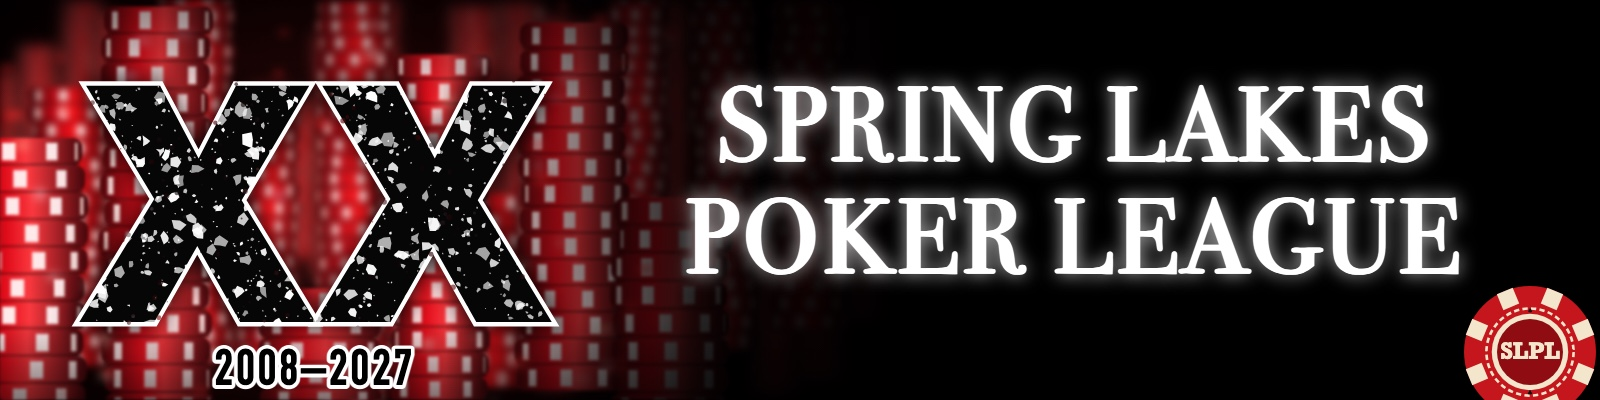
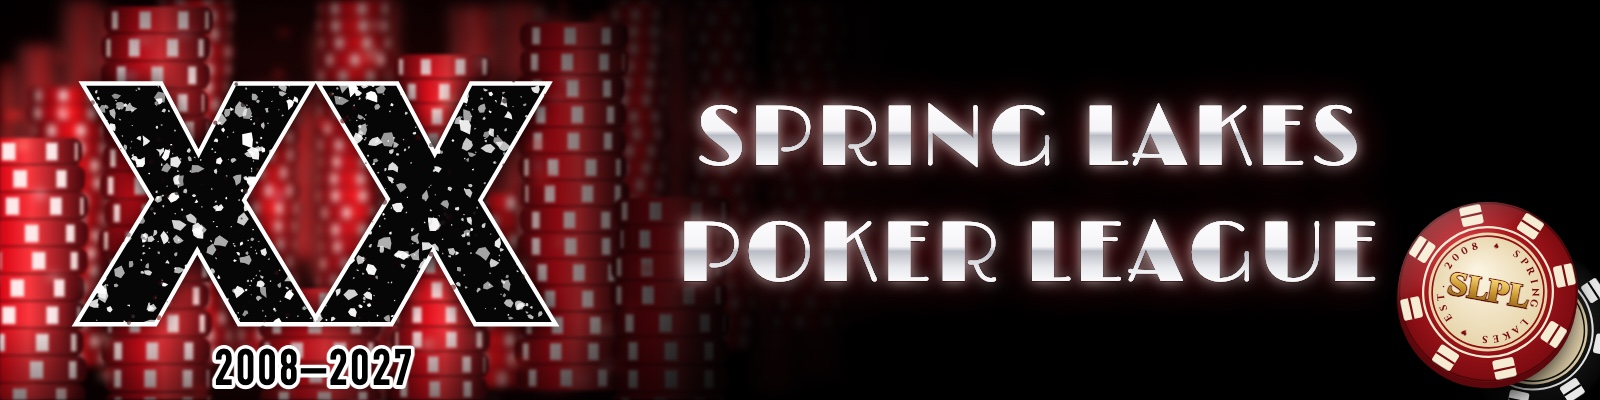
Use Header F (Limelight title, new 3D chip) for Season 20

Changed region(s): [[0.4062, 0.18, 1.0, 1.0]]

diff --git a/design/header.html b/design/header.html
@@ -8,6 +8,8 @@
   Usage: header.html?season=20&years=2008-2027&style=a
   Render to an image with headless Chrome (see design/README.md).
 -->
+<link rel="preconnect" href="https://fonts.googleapis.com">
+<link href="https://fonts.googleapis.com/css2?family=Cinzel:wght@700;900&family=Rye&family=Limelight&family=Playfair+Display+SC:wght@900&family=Cinzel+Decorative:wght@900&display=block" rel="stylesheet">
 <style>
   html, body { margin: 0; padding: 0; background: #000; overflow: hidden; }
   canvas { display: block; }
@@ -19,13 +21,18 @@
 const params = new URLSearchParams(location.search);
 const SEASON = parseInt(params.get('season') || '20');
 const YEARS = params.get('years') || `2008–2027`;
-const STYLE = params.get('style') || 'c'; // c = Bodoni, chosen for Season 20
+const STYLE = params.get('style') || 'f'; // f = Limelight, chosen for Season 20
 
 // Font pairings: roman numeral / title
 const STYLES = {
   a: { roman: '900 330px "Rockwell"',        title: 'bold 96px "Copperplate"',      titleSpacing: 6,  lineGap: 108 },
   b: { roman: '330px "Impact"',              title: '98px "Herculanum"',            titleSpacing: 4,  lineGap: 110 },
   c: { roman: '900 330px "Arial Black"',     title: 'bold 104px "Bodoni 72 Smallcaps"', titleSpacing: 5, lineGap: 112 },
+  // Second round: Google fonts, chrome-and-glow title, sized to fit
+  d: { roman: '900 330px "Arial Black"', title: '900 100px "Cinzel"',             titleSpacing: 4, lineGap: 116, chrome: true },
+  e: { roman: '900 330px "Arial Black"', title: '100px "Rye"',                    titleSpacing: 3, lineGap: 118, chrome: true },
+  f: { roman: '900 330px "Arial Black"', title: '100px "Limelight"',              titleSpacing: 4, lineGap: 116, chrome: true },
+  g: { roman: '900 330px "Arial Black"', title: '900 100px "Playfair Display SC"', titleSpacing: 3, lineGap: 116, chrome: true },
 };
 const S = STYLES[STYLE] || STYLES.a;
 
@@ -216,61 +223,174 @@ function years(text, cx, y) {
 }
 
 function title(cx, y1, y2) {
+  const lines = ['SPRING LAKES', 'POKER LEAGUE'];
   ctx.save();
-  ctx.font = S.title;
   ctx.textAlign = 'center';
   ctx.letterSpacing = S.titleSpacing + 'px';
-  ctx.fillStyle = '#fff';
-  // soft white glow like the old header
-  ctx.shadowColor = 'rgba(255,255,255,0.75)';
-  ctx.shadowBlur = 18;
-  ctx.fillText('SPRING LAKES', cx, y1);
-  ctx.fillText('POKER LEAGUE', cx, y2);
-  ctx.shadowBlur = 0;
-  ctx.fillText('SPRING LAKES', cx, y1);
-  ctx.fillText('POKER LEAGUE', cx, y2);
+  // Shrink the font if the wider line would run past the chip area
+  let font = S.title;
+  ctx.font = font;
+  const maxW = 700;
+  const widest = Math.max(...lines.map(l => ctx.measureText(l).width));
+  if (widest > maxW) {
+    font = font.replace(/(\d+)px/, (m, px) => Math.floor(px * maxW / widest) + 'px');
+    ctx.font = font;
+  }
+  const ys = [y1, y2];
+
+  if (!S.chrome) {
+    ctx.fillStyle = '#fff';
+    ctx.shadowColor = 'rgba(255,255,255,0.75)';
+    ctx.shadowBlur = 18;
+    lines.forEach((l, i) => ctx.fillText(l, cx, ys[i]));
+    ctx.shadowBlur = 0;
+    lines.forEach((l, i) => ctx.fillText(l, cx, ys[i]));
+    ctx.restore();
+    return;
+  }
+
+  const size = parseInt(font.match(/(\d+)px/)[1]);
+  lines.forEach((l, i) => {
+    const y = ys[i];
+    // soft red halo behind, then white glow
+    ctx.shadowColor = 'rgba(230,30,40,0.55)';
+    ctx.shadowBlur = 40;
+    ctx.fillStyle = '#fff';
+    ctx.fillText(l, cx, y);
+    ctx.shadowColor = 'rgba(255,255,255,0.7)';
+    ctx.shadowBlur = 14;
+    ctx.fillText(l, cx, y);
+    ctx.shadowBlur = 0;
+    // chrome face: bright top, cool middle band, bright bottom edge
+    const g = ctx.createLinearGradient(0, y - size * 0.78, 0, y + size * 0.05);
+    g.addColorStop(0,    '#ffffff');
+    g.addColorStop(0.45, '#f4f4f6');
+    g.addColorStop(0.52, '#b9bcc4');
+    g.addColorStop(0.75, '#e9eaee');
+    g.addColorStop(1,    '#ffffff');
+    ctx.fillStyle = g;
+    ctx.lineJoin = 'round';
+    ctx.lineWidth = 2;
+    ctx.strokeStyle = 'rgba(40,0,0,0.55)';
+    ctx.strokeText(l, cx, y);
+    ctx.fillText(l, cx, y);
+  });
   ctx.restore();
 }
 
-// ─── SLPL chip badge ───
-function chipBadge(cx, cy, r) {
-  ctx.save();
-  ctx.shadowColor = 'rgba(0,0,0,0.8)';
-  ctx.shadowBlur = 20;
-  ctx.fillStyle = '#c4161c';
-  ctx.beginPath(); ctx.arc(cx, cy, r, 0, Math.PI * 2); ctx.fill();
-  ctx.restore();
-  // edge inserts
+// ─── SLPL chip badge: tilted casino chip resting on a second chip ───
+function chipFace(g, r, opts) {
+  const { body, bodyDark, insert, ink } = opts;
+  // body with rim shading
+  const rg = g.createRadialGradient(-r * 0.3, -r * 0.35, r * 0.1, 0, 0, r);
+  rg.addColorStop(0, body);
+  rg.addColorStop(1, bodyDark);
+  g.fillStyle = rg;
+  g.beginPath(); g.arc(0, 0, r, 0, Math.PI * 2); g.fill();
+  // edge inserts (rounded blocks)
   for (let i = 0; i < 8; i++) {
-    const a = (i / 8) * Math.PI * 2 + Math.PI / 8;
-    ctx.save();
-    ctx.translate(cx, cy); ctx.rotate(a);
-    ctx.fillStyle = '#f3e6cc';
-    ctx.fillRect(r * 0.74, -r * 0.13, r * 0.26, r * 0.26);
-    ctx.restore();
+    g.save();
+    g.rotate((i / 8) * Math.PI * 2 + Math.PI / 8);
+    g.fillStyle = insert;
+    g.beginPath();
+    g.roundRect(r * 0.76, -r * 0.12, r * 0.22, r * 0.24, r * 0.03);
+    g.fill();
+    // little stripe inside each insert
+    g.fillStyle = bodyDark;
+    g.fillRect(r * 0.86, -r * 0.12, r * 0.025, r * 0.24);
+    g.restore();
   }
-  // inner ring
-  ctx.strokeStyle = '#f3e6cc';
-  ctx.lineWidth = r * 0.04;
-  ctx.setLineDash([r * 0.08, r * 0.05]);
-  ctx.beginPath(); ctx.arc(cx, cy, r * 0.66, 0, Math.PI * 2); ctx.stroke();
-  ctx.setLineDash([]);
-  ctx.fillStyle = '#f3e6cc';
-  ctx.beginPath(); ctx.arc(cx, cy, r * 0.58, 0, Math.PI * 2); ctx.fill();
+  // outer and inner rings
+  g.strokeStyle = 'rgba(0,0,0,0.35)';
+  g.lineWidth = r * 0.02;
+  g.beginPath(); g.arc(0, 0, r * 0.985, 0, Math.PI * 2); g.stroke();
+  g.strokeStyle = insert;
+  g.lineWidth = r * 0.025;
+  g.beginPath(); g.arc(0, 0, r * 0.72, 0, Math.PI * 2); g.stroke();
+  // inlay
+  const ig = g.createRadialGradient(-r * 0.15, -r * 0.2, r * 0.05, 0, 0, r * 0.66);
+  ig.addColorStop(0, '#fbf3df');
+  ig.addColorStop(1, '#e6d3a8');
+  g.fillStyle = ig;
+  g.beginPath(); g.arc(0, 0, r * 0.66, 0, Math.PI * 2); g.fill();
+  g.strokeStyle = ink;
+  g.lineWidth = r * 0.018;
+  g.beginPath(); g.arc(0, 0, r * 0.62, 0, Math.PI * 2); g.stroke();
+}
+
+function ringText(g, text, r, size, color) {
+  g.save();
+  g.font = `700 ${size}px "Cinzel", "Apple Symbols"`;
+  g.fillStyle = color;
+  g.textAlign = 'center';
+  g.textBaseline = 'middle';
+  const chars = [...text];
+  const step = (Math.PI * 2) / chars.length;
+  chars.forEach((ch, i) => {
+    g.save();
+    g.rotate(-Math.PI / 2 + i * step);
+    g.translate(r, 0);
+    g.rotate(Math.PI / 2);
+    g.fillText(ch, 0, 0);
+    g.restore();
+  });
+  g.restore();
+}
+
+function chipBadge(cx, cy, r) {
+  const red   = { body: '#e0242c', bodyDark: '#7a0b10', insert: '#f6ecd4', ink: '#8f0d12' };
+  const black = { body: '#3a3a3a', bodyDark: '#050505', insert: '#e8e8e8', ink: '#111' };
+
+  // chip underneath, peeking out down-left, slightly tilted
+  ctx.save();
+  ctx.translate(cx + r * 0.5, cy + r * 0.42);
+  ctx.rotate(0.6);
+  ctx.shadowColor = 'rgba(0,0,0,0.9)';
+  ctx.shadowBlur = 25;
+  ctx.fillStyle = '#000';
+  ctx.beginPath(); ctx.arc(0, 0, r * 0.92, 0, Math.PI * 2); ctx.fill();
+  ctx.shadowBlur = 0;
+  chipFace(ctx, r * 0.92, black);
+  ctx.restore();
+
+  // main chip: edge thickness first, then the face
+  ctx.save();
+  ctx.translate(cx, cy);
+  ctx.rotate(0.18);
+  ctx.save();
+  ctx.shadowColor = 'rgba(0,0,0,0.95)';
+  ctx.shadowBlur = 28;
+  ctx.shadowOffsetX = -6;
+  ctx.shadowOffsetY = 10;
+  ctx.fillStyle = '#5c070b';
+  ctx.beginPath(); ctx.ellipse(0, r * 0.07, r, r, 0, 0, Math.PI * 2); ctx.fill();
+  ctx.restore();
+  chipFace(ctx, r, red);
+
+  // center: suits, SLPL, season
   ctx.fillStyle = '#8f0d12';
-  ctx.beginPath(); ctx.arc(cx, cy, r * 0.5, 0, Math.PI * 2); ctx.fill();
-  ctx.fillStyle = '#f3e6cc';
-  ctx.font = `bold ${r * 0.34}px "Rockwell"`;
   ctx.textAlign = 'center';
   ctx.textBaseline = 'middle';
-  ctx.fillText('SLPL', cx, cy + r * 0.02);
-  // suits around the ring
-  ctx.font = `${r * 0.13}px "Apple Symbols"`;
-  ['♠', '♥', '♣', '♦'].forEach((s, i) => {
-    const a = -Math.PI / 2 + i * Math.PI / 2;
-    ctx.fillStyle = i % 2 ? '#c4161c' : '#111';
-    ctx.fillText(s, cx + Math.cos(a) * r * 0.62, cy + Math.sin(a) * r * 0.62);
-  });
+  ctx.font = `900 ${r * 0.34}px "Cinzel"`;
+  const tg = ctx.createLinearGradient(0, -r * 0.15, 0, r * 0.15);
+  tg.addColorStop(0, '#f7d774');
+  tg.addColorStop(0.5, '#c8962c');
+  tg.addColorStop(1, '#8a5d12');
+  ctx.lineWidth = r * 0.03;
+  ctx.strokeStyle = '#5a0a0d';
+  ctx.strokeText('SLPL', 0, r * 0.02);
+  ctx.fillStyle = tg;
+  ctx.fillText('SLPL', 0, r * 0.02);
+  ringText(ctx, '\u2660 SPRING LAKES \u2665 EST. 2008 ', r * 0.515, r * 0.11, '#7a0b10');
+
+  // gloss
+  const gl = ctx.createLinearGradient(-r, -r, r * 0.4, r * 0.4);
+  gl.addColorStop(0, 'rgba(255,255,255,0.35)');
+  gl.addColorStop(0.45, 'rgba(255,255,255,0.06)');
+  gl.addColorStop(0.5, 'rgba(255,255,255,0)');
+  ctx.fillStyle = gl;
+  ctx.beginPath(); ctx.arc(0, 0, r, 0, Math.PI * 2); ctx.fill();
+  ctx.restore();
 }
 
 async function render() {
@@ -278,13 +398,14 @@ async function render() {
     document.fonts.load(S.roman, 'XVI'),
     document.fonts.load(S.title, 'SPRING LAKES POKER LEAGUE'),
     document.fonts.load('bold 50px "DIN Condensed"', '0123456789'),
-    document.fonts.load('bold 40px "Rockwell"', 'SLPL'),
+    document.fonts.load('900 40px "Cinzel"', 'SLPL'),
+    document.fonts.load('700 20px "Cinzel"', 'SPRING'),
   ]);
   background();
   romanNumeral(toRoman(SEASON), 315, 322);
   years(YEARS, 315, 385);
-  title(1075, 160, 160 + S.lineGap);
-  chipBadge(1530, 352, 66);
+  title(1030, 165, 165 + S.lineGap);
+  chipBadge(1488, 292, 90);
   document.title = 'ready';
 }
 render();
